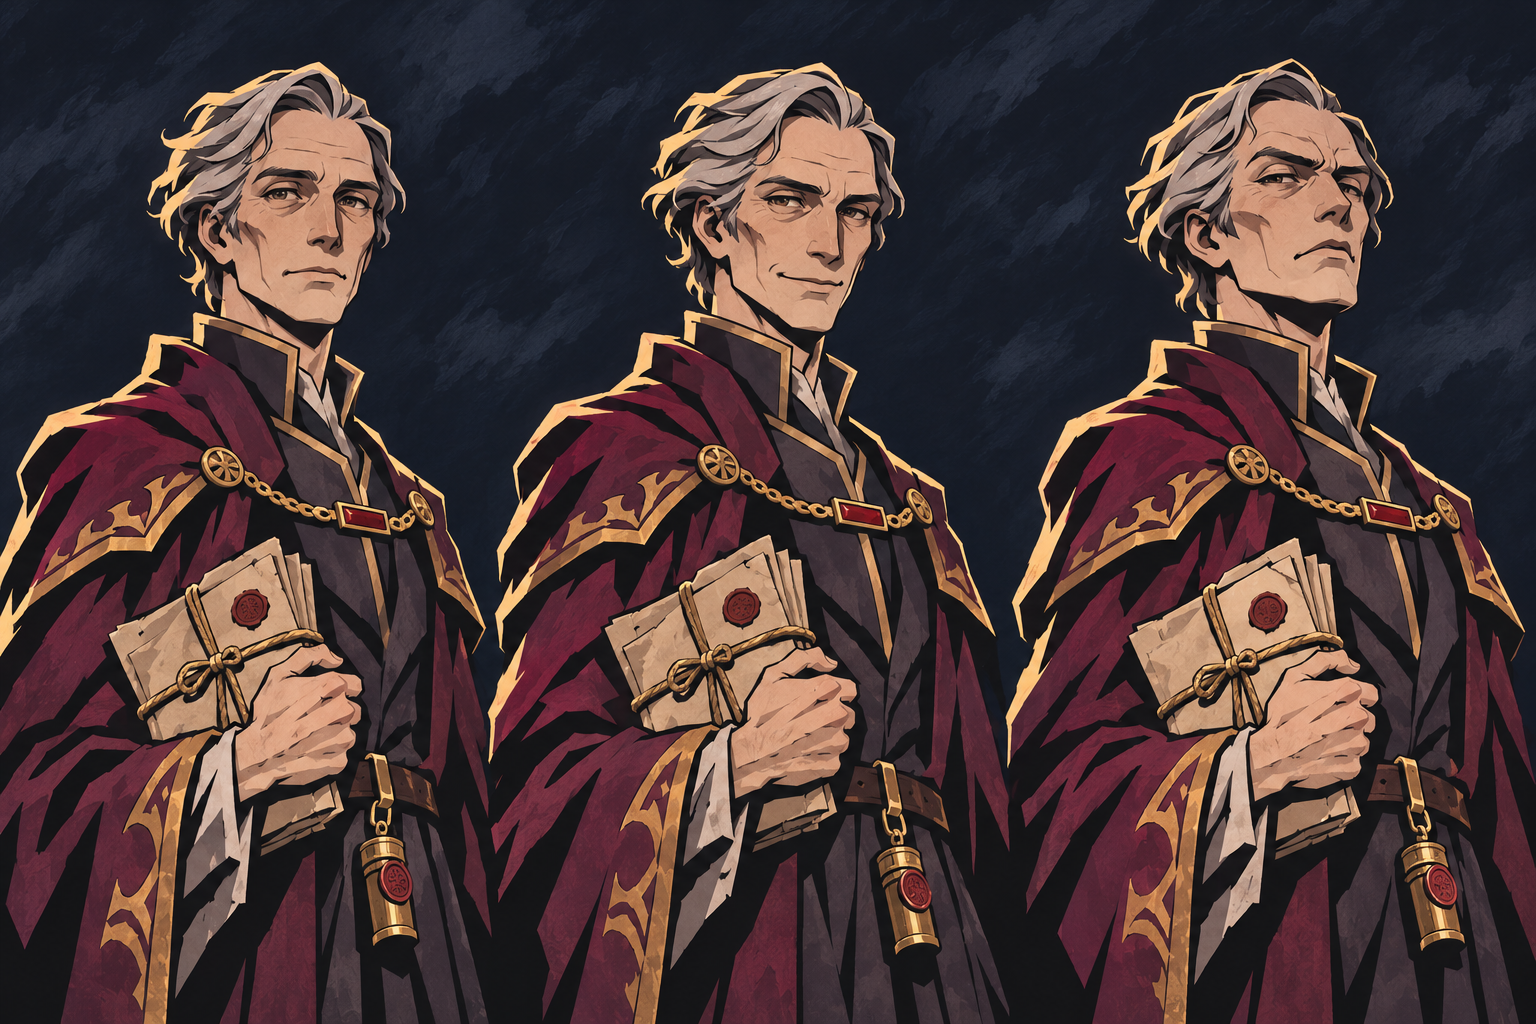
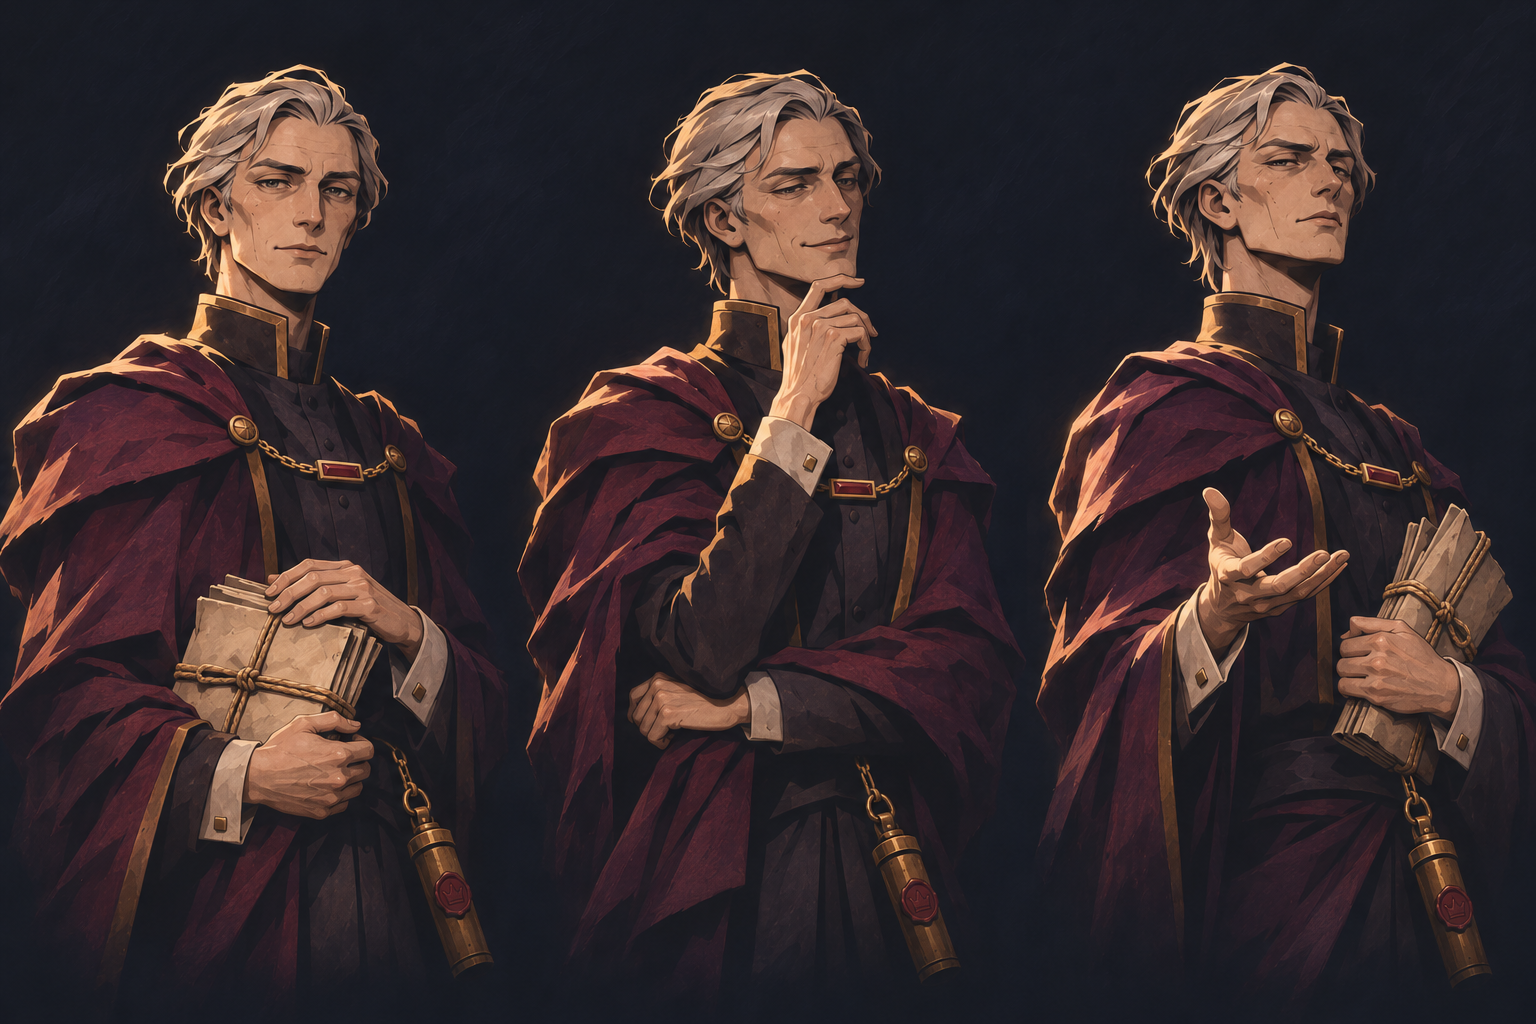
T59: 立绘 A 风格重画 2：五名仇人（15 张）

diff --git a/reports/agents/T59.md b/reports/agents/T59.md
@@ -1,12 +1,12 @@
 ---
 task_id: T59
 executor: codex
-status: blocked
+status: review_required
 summary: |
-  按 rendered_v2 原文生成 36 张，完成 14/15 项选版；22 张落选图保存在各角色 alt/。
-  五名角色的旧 hero 已先备份到 v1/hero.png；15 条 RESULTS 均标记 in_review。
-  宰相 expressions 遇每日图像额度上限，保留旧图，明确登记未生成。
-  大主教 hero 经三次尝试后仍有一脚被袍摆遮住，作为部分符合项交审。
+  五名仇人的15项A风格立绘均已生成并选版，RESULTS全部标记in_review。
+  上轮生成36张、选定14项；2026-11-26续作补宰相表情两版选一，累计38张、23张落选图。
+  保留五份原始身份备份、原文提示词哈希及全部历史尝试；未改写提示词。
+  大主教主图已用满三次尝试，另一脚仍被袍摆遮住；五张三视图分辨率不足，明确交审。
 artifacts:
   - art/chars/RESULTS-T59.json
   - art/chars/CHAR-{EARL,COUNTESS,ARCHBISHOP,MARSHAL,CHANCELLOR}/{hero,turnaround,expressions}.png
@@ -14,30 +14,36 @@ artifacts:
   - art/chars/CHAR-*/v1/hero.png
   - reports/agents/T59.md
 validation: |
-  test -f art/chars/RESULTS-T59.json 返回 0；git diff --check 通过。
-  15 条登记/7项自查、15份原文提示词、5份原图备份、36张源文件复制及41张PNG完整性核验通过。
+  指定verify返回0；git diff --check通过。
+  15项结构和哈希、5份原始身份备份、38张源图复制及43张PNG完整性核验通过。
+  续作前14项选版和登记未变；未截图，资产尚未接入游戏。
 issues:
-  - CHAR-CHANCELLOR/expressions 未生成，旧图未覆盖。
-  - git add被沙箱拒绝创建worktree的index.lock，未产生提交。
-  - CHAR-ARCHBISHOP/hero 另一脚仍被袍摆遮住。
-  - 五张 turnaround 原生1672x941，低于提示词2048x1152。
+  - CHAR-ARCHBISHOP/hero另一脚被袍摆遮住，三次尝试后保留部分符合版。
+  - 五张turnaround原生1672x941，低于提示词2048x1152。
+  - 部分体型与表情身体角度差异较克制，待Lead审美验收。
 usage: |
-  built-in image_gen 成功36张；最后一组请求遇HTTP429 usage_limit_reached，无新产物。
-  工具未提供token、费用或剩余额度；未调用付费CLI或其他提供方。
+  built-in image_gen累计成功38张：上轮36张，本轮2张。
+  上轮宰相表情遇每日额度限制，本轮已恢复并完成；工具未提供费用或剩余额度。
 needs_claude: true
-reason: 接手额度恢复后的宰相表情组，并复核大主教遮脚、部分体型细节及三视图分辨率。
+reason: 复核大主教遮脚、三视图原生分辨率及体型姿态细节，决定这些偏差是否接受。
 ---
 
-## 结果：部分完成
+## 结果：生成完成，待审
 
-在指定 worktree `/Users/cyy/Projects/亡魂王子-t59`、分支 `codex/t59-chars-v2b` 执行。14 项有新选版；1 项因每日图像额度限制未生成。登记文件存在不代表15张全部完成。
+工作目录 `/Users/cyy/Projects/亡魂王子-t59`，分支 `codex/t59-chars-v2b`。15项均有新选版；其中大主教主图仍部分符合要求，未将`in_review`写成最终验收通过。
+
+本轮发现已有提交`6a1ebf8`保存上轮结果，按报告恢复点续做，只补齐宰相表情组。保留已有备份及尝试计数，没有重新开始任务或覆盖身份参考。
 
 ## 改动
 
-- 每次调用直接传入对应 `art/prompts/rendered_v2/*.txt` 全文，未增删、重排或改写。15份提示词与最初载入内容一致，RESULTS记录SHA-256。
-- 所有成功生成均使用4张参考图，顺序为 `EDMUND_A.png`、`ELEANOR_A.png`、`BERNARD_A.png`、对应角色备份 `v1/hero.png`；前三张管渲染，末张管身份服装。未使用新选版充当身份参考。
-- 开始生成前已复制五名角色的旧 `hero.png` 到各自 `v1/hero.png`，核验与任务开始时HEAD版本逐字节一致。
-- 主图/三视图/表情组选版如下。`aN/vN`分别表示第几次尝试和该次的第几个版本；每次均生成两版，所有落选版保留，不覆盖既有 alt 文件。
+- 每次生成直接传入对应`art/prompts/rendered_v2/*.txt`全文，不增删、重排或改写。15份提示词哈希与上轮记录及当前文件一致；提示词目录未改。
+- 参考图顺序为`EDMUND_A.png`、`ELEANOR_A.png`、`BERNARD_A.png`、对应角色`v1/hero.png`。前三张用于渲染风格，末张用于长相与服装。
+- 五份`v1/hero.png`已在上轮生成前备份；本轮逐字节核对其与`6a1ebf8^`中原始hero一致，没有用新选版替换身份参考。
+- 每次成功尝试均生成两版；所有落选版保存在各角色`alt/`。未裁切、缩放、后处理或改绘，工作区文件与生成源图逐字节一致。
+- `RESULTS-T59.json`共15条，均含file、prompt_file、alts、attempts、7项checklist和`status: in_review`，另有提示词及身份哈希、实际尺寸、来源、选版理由与不足。
+- 宰相表情：本轮选第二版，第一版保存到`art/chars/CHAR-CHANCELLOR/alt/expressions-T59-a2-v1.png`。三张分别抱文书、扶下巴并横臂、摊手；头倾和肩线逐渐侧转，耐心、薄笑和冷蔑可辨。身体角度变化较克制，留待Lead判断。
+- 宰相表情累计`attempts: 2`，其中第一次是上轮额度受阻、无产物；第二次成功生成两版。历史429及恢复记录保存在`generation_history`，当前`generation_status: generated`。
+- 本轮仅修改宰相表情主文件、新增其一张alt、更新RESULTS和任务明确要求的报告。前14项选版及登记保持不变，其他目录未改。
 
 | 角色 | hero | turnaround | expressions |
 |---|---|---|---|
@@ -45,11 +51,9 @@ reason: 接手额度恢复后的宰相表情组，并复核大主教遮脚、部
 | CHAR-COUNTESS | a1/v2 | a1/v2 | a1/v2 |
 | CHAR-ARCHBISHOP | a3/v1，遮脚待复核 | a1/v1 | a1/v2 |
 | CHAR-MARSHAL | a1/v1 | a1/v2 | a1/v1 |
-| CHAR-CHANCELLOR | a3/v1 | a1/v2 | 未生成，保留旧图 |
+| CHAR-CHANCELLOR | a3/v1 | a1/v2 | a2/v2，本轮补齐 |
 
-- `RESULTS-T59.json` 共15条，各有 file、prompt_file、alts、attempts、7项 checklist、status: in_review，并附选择理由、原文哈希、身份备份哈希、来源及实际尺寸。
-- 未生成条目的 `generation_status` 为 `blocked_usage_limit`、`quality_status` 为 `pending_generation`、`output_is_original` 为 true；`selected_variant` 为 null，alts为空。该条不伪装为新图。
-- 除 `art/chars/` 和任务明确要求的本报告外，未修改其他路径。未改提示词、风格样图、游戏代码或接入。
+`aN/vN`表示累计第几次尝试及该次第几个版本。本轮没有继续重试已用满三次的大主教主图。
 
 ## 验证
 
@@ -59,80 +63,50 @@ reason: 接手额度恢复后的宰相表情组，并复核大主教遮脚、部
 test -f art/chars/RESULTS-T59.json
 ```
 
-返回码 `0`，无标准输出。`git diff --check` 返回码 `0`。
+返回码`0`，无标准输出。`git diff --check`返回码`0`。
 
-资产核验实际输出：
+只读资产核验的实际输出：
 
 ```text
-PROMPT_VERBATIM: 15/15
-SCHEMA: 15 unique rows, all in_review, all 7 checklist items
-OUTPUTS: 14 selected, 22 alternates; source copies match byte-for-byte
-BACKUPS: 5/5 match original HEAD hero images byte-for-byte
+SCHEMA: 15 unique entries; all generated and in_review; 7 checklist items each
 PROMPT_HASHES: 15/15 unchanged
-PNG_INTEGRITY: 41/41 signatures, chunk CRCs and image streams valid
-UNCHANGED: CHAR-CHANCELLOR/expressions.png matches original HEAD
+BACKUPS: 5/5 match pre-T59 hero images byte-for-byte
+OUTPUTS: 15 selected, 23 alternates; 38 source copies match byte-for-byte
+PNG_INTEGRITY: 43/43 signatures, CRCs and image streams valid
+PRESERVED: prior 14 selected assets and metadata unchanged
 LIMITS: attempts <= 3; no five consecutive image failures
 SIZES: hero 1024x1536; turnaround 1672x941; expressions 1536x1024
+SCOPE: changes restricted to art/chars/ and explicitly requested report
 ```
 
-41张PNG为36张新生成图及5份身份备份；检查签名、各块CRC和IDAT解压。复制未缩放、裁切、后处理或改绘。
+43张PNG为38张生成结果及5份身份备份；检查PNG签名、块CRC和图像流解压，核对尺寸及源图复制。
 
-视觉证据：成功的36张生成结果均已在会话中直接查看并逐组比较；选图与备选路径见RESULTS。
+视觉证据：上轮报告记录36张已直接查看并比较；本轮实际查看宰相原始身份参考、两张新表情结果、大主教主图及宰相主图/三视图。新选版与alt均为实际生成结果。
 
-运行截图：**未截图**。本任务只交付角色概念资产，scripts/、scenes/ 和 project.godot 中未发现这些角色路径或ID引用，未做游戏接入。没有用无关游戏画面作为素材验收证据；若要求游戏实际运行截图，由Lead在接入后补充。
+运行截图：**未截图**。此任务交付角色概念资产，未接入游戏；上轮报告记录scripts/、scenes/、project.godot未引用这些角色资产，本轮也未修改这些目录。若需游戏运行截图，由Lead接入后补充。没有将无关游戏画面作为素材验收证据。
 
-未运行Godot全套验证：本卡指定verify仅为登记文件存在性，代码、场景与项目配置未改。
+未运行Godot全套验证：本卡指定verify仅为登记文件存在性，代码、场景和项目配置未改。
 
 ## 风险与已知不足
 
-- 大主教主图：三次共六版均有袍摆遮脚。第三次第一版露出后方靴子，另一脚仍不见，未完全满足FORMAT的`feet visible`。已停止该图重试，记录partial并保留其余5版。
-- 大主教三视图：高瘦成立，年老微驼偏弱。元帅主图和三视图的厚肩成立，弓腿偏轻。伯爵、伯爵夫人三视图的正面头部略侧转，伯爵肥胖程度比坐姿主图收敛。这些属于Lead视觉复核项，不能把in_review视为最终审美通过。
-- 五张三视图工具返回1672×941，接近16:9，但未达到提示词2048×1152；为遵守只生成、选版、复制、登记的范围，保存原生结果，未放大。
-- 表情组已比较手势、头倾和肩线；身体角度差异较克制，最终由Lead判断是否足够。单人图页没有跨角色身高比例尺，宰相“中等身高”无法独立验证。
-- 本任务不含王子，第6项自查均明确not_applicable。
+- 大主教主图：上轮三次共六版均有袍摆遮脚。第三次第一版露出后方靴子，另一脚仍不见，未完全满足`feet visible`；RESULTS已有partial记录。已达到三次上限，停止重试并保留其余五版。
+- 五张三视图原生1672×941，接近16:9，未达到提示词2048×1152。保留原生结果，没有放大或改写原提示词。
+- 上轮标注的复核项仍保留：大主教三视图微驼偏弱，元帅厚肩成立但弓腿偏轻，伯爵和伯爵夫人三视图正面头略侧转，伯爵肥胖程度较坐姿主图收敛。
+- 表情组身体角度差异较克制，最终由Lead判断。宰相半身图不能独立核验中等身高，单人三视图没有跨角色身高比例尺。
+- 本任务不含王子，第6项自查均为not_applicable。
 
 ## 未完成
 
-- `art/chars/CHAR-CHANCELLOR/expressions.png` 的A风格重画和两版选一；现文件保持任务前原图。
-- 最后一组图像调用返回：
+没有待生成条目。仍待Lead对上述质量偏差进行最终验收；本报告状态为review_required。
 
-```text
-HTTP 429 Too Many Requests
-error.type: usage_limit_reached
-message: The usage limit has been reached
-resets_at: 1795627112
-limit_window_minutes: 1440
-resets_in_seconds: 36537
-```
-
-这是每日额度耗尽，恢复时间为 **2026-11-25 17:18:32 UTC / 2026-11-26 01:18:32 Asia/Singapore**。当时约需10小时，超过本任务300分钟上限；因此未等待至次日，也未切换提供方。两版请求已发起但本轮没有可用新图，记录为一次受阻尝试。恢复后仍应原样使用对应提示词及4张相同参考图。
-
-- 没有连续五张三次失败；大主教主图和宰相主图各最多三次，其余成功项一次。未触发质量升级阈值，也未超过单图尝试上限。
+上轮宰相表情受每日额度限制，恢复点为2026-11-26 01:18:32（Asia/Singapore）；本轮成功调用两次，已解除该项阻塞。没有连续五张原提示词三次不合格，未触发escalate_if。
 
 ## 疑问（需要用户或 Lead 决定的）
 
-- Lead复核大主教遮脚、微驼、元帅弓腿及三视图原生分辨率是否接受。执行者未改动提示词以修正这些问题。
-- 额度恢复后补宰相表情组；本报告和RESULTS已留下明确恢复点。
+- 是否接受大主教遮脚、三视图分辨率及体型姿态细节？所有偏差均已登记，执行者没有改写提示词或绕过三次上限。
 
 ## 提交
 
-目标分支：`codex/t59-chars-v2b`。暂存阶段失败，未创建提交；所有43个改动文件保留在当前worktree。未尝试绕过沙箱权限。
+上轮产物已由启动流程提交为`6a1ebf8`；旧报告中git暂存失败描述的是上轮执行者当时的情况，并非当前分支仍无提交。
 
-实际错误：
-
-```text
-fatal: Unable to create '/Users/cyy/Projects/亡魂王子/.git/worktrees/亡魂王子-t59/index.lock': Operation not permitted
-```
-
-错误发生于 `git add -- <任务资产与报告路径>`，返回码128。`git commit`未执行。请由任务启动脚本或Lead在有权限的会话代提交。
-
-建议提交信息（包含署名）：
-
-```text
-art: redraw T59 council characters in refined ink style
-
-Generated 14 selected council character assets and archived 22 alternatives.
-Preserved identity references and recorded the quota-blocked final sheet.
-
-Co-Authored-By: GPT-6 <gpt-6@noreply.openai.com>
-```
+本轮补全在`codex/t59-chars-v2b`提交，范围为宰相表情主文件及落选版、RESULTS和本报告。提交信息包含`Co-Authored-By: GPT-6 <gpt-6@noreply.openai.com>`；本报告随补全提交一同保存。
